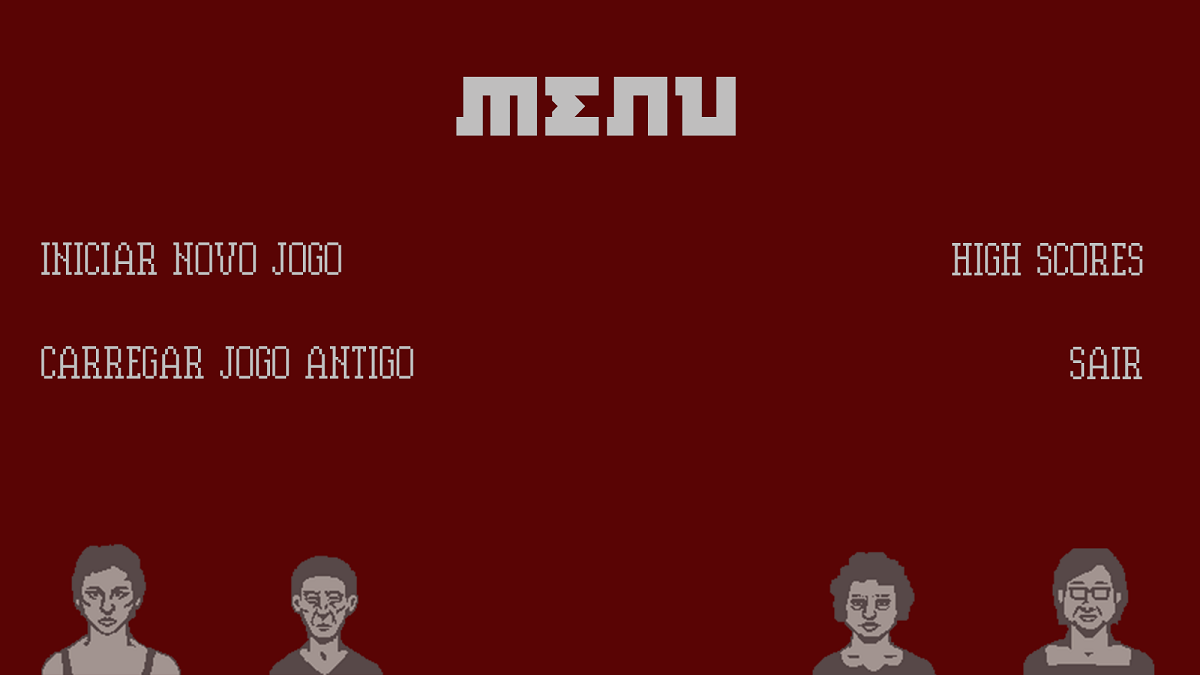
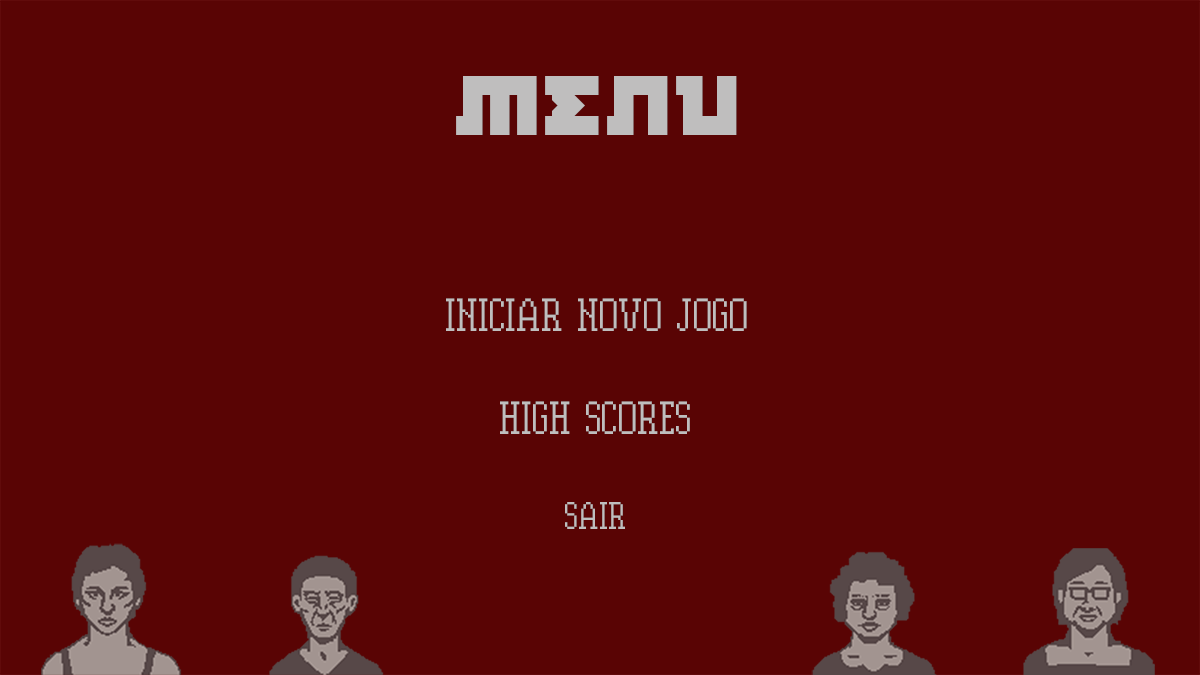
menu principal atualizado

diff --git a/src/ploximo/Views/MenuPrincipal.java b/src/ploximo/Views/MenuPrincipal.java
@@ -26,7 +26,6 @@ public class MenuPrincipal extends javax.swing.JFrame {
         
         ArrayList botoes = new ArrayList<>();
         botoes.add(novoJogoBotao);
-        botoes.add(carregarJogoBotao);
         botoes.add(highScoresBotao);
         botoes.add(sairBotao);
         jogoController.configurarBotoes(botoes);
@@ -44,7 +43,6 @@ public class MenuPrincipal extends javax.swing.JFrame {
     private void initComponents() {
 
         novoJogoBotao = new javax.swing.JButton();
-        carregarJogoBotao = new javax.swing.JButton();
         highScoresBotao = new javax.swing.JButton();
         sairBotao = new javax.swing.JButton();
         fundo = new javax.swing.JLabel();
@@ -58,9 +56,7 @@ public class MenuPrincipal extends javax.swing.JFrame {
             }
         });
         getContentPane().add(novoJogoBotao);
-        novoJogoBotao.setBounds(40, 240, 310, 40);
-        getContentPane().add(carregarJogoBotao);
-        carregarJogoBotao.setBounds(40, 350, 380, 40);
+        novoJogoBotao.setBounds(440, 290, 310, 50);
 
         highScoresBotao.addActionListener(new java.awt.event.ActionListener() {
             public void actionPerformed(java.awt.event.ActionEvent evt) {
@@ -68,7 +64,7 @@ public class MenuPrincipal extends javax.swing.JFrame {
             }
         });
         getContentPane().add(highScoresBotao);
-        highScoresBotao.setBounds(950, 240, 200, 40);
+        highScoresBotao.setBounds(490, 400, 220, 50);
 
         sairBotao.addActionListener(new java.awt.event.ActionListener() {
             public void actionPerformed(java.awt.event.ActionEvent evt) {
@@ -76,7 +72,7 @@ public class MenuPrincipal extends javax.swing.JFrame {
             }
         });
         getContentPane().add(sairBotao);
-        sairBotao.setBounds(1070, 350, 80, 30);
+        sairBotao.setBounds(550, 500, 90, 40);
 
         fundo.setIcon(new javax.swing.ImageIcon(getClass().getResource("/ploximo/Imagens/menu.png"))); // NOI18N
         fundo.setText("jLabel1");
@@ -145,7 +141,6 @@ public class MenuPrincipal extends javax.swing.JFrame {
     }
 
     // Variables declaration - do not modify//GEN-BEGIN:variables
-    private javax.swing.JButton carregarJogoBotao;
     private javax.swing.JLabel fundo;
     private javax.swing.JButton highScoresBotao;
     private javax.swing.JButton novoJogoBotao;
